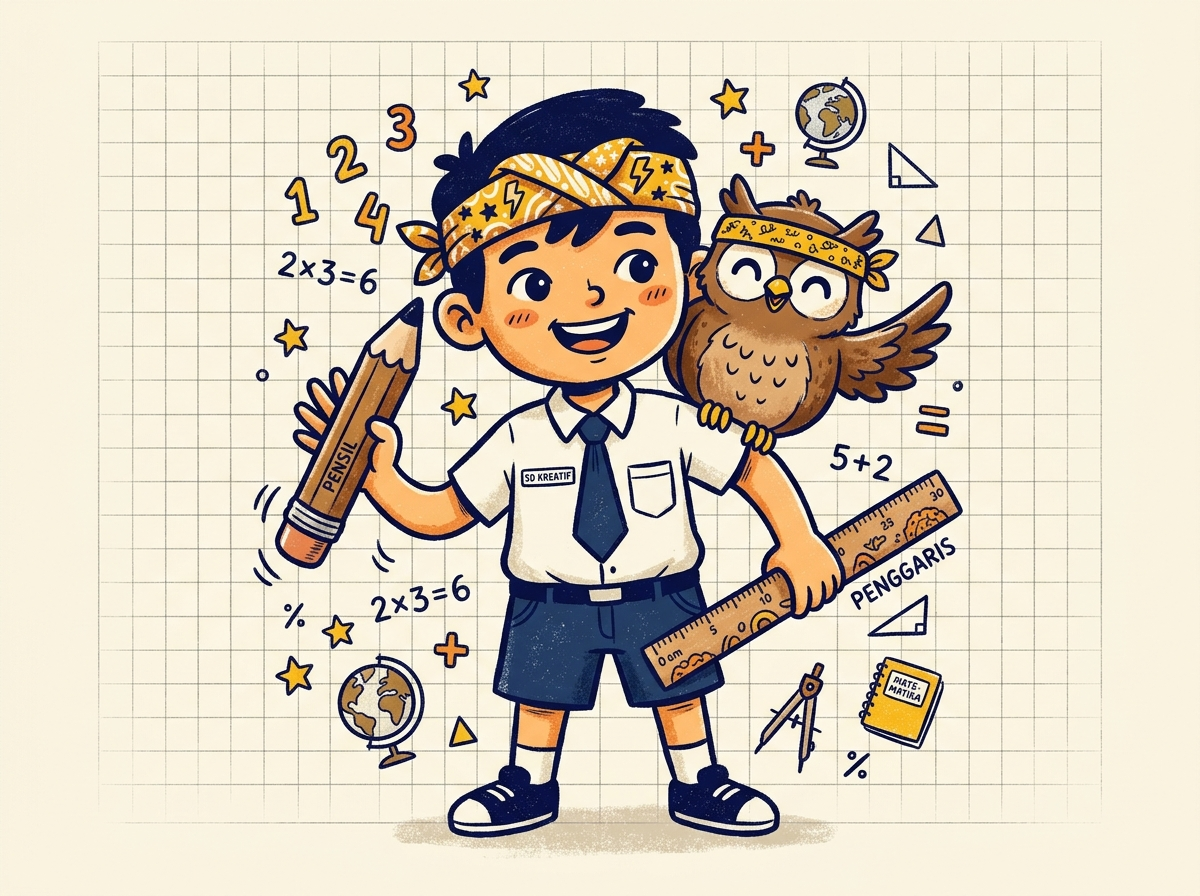
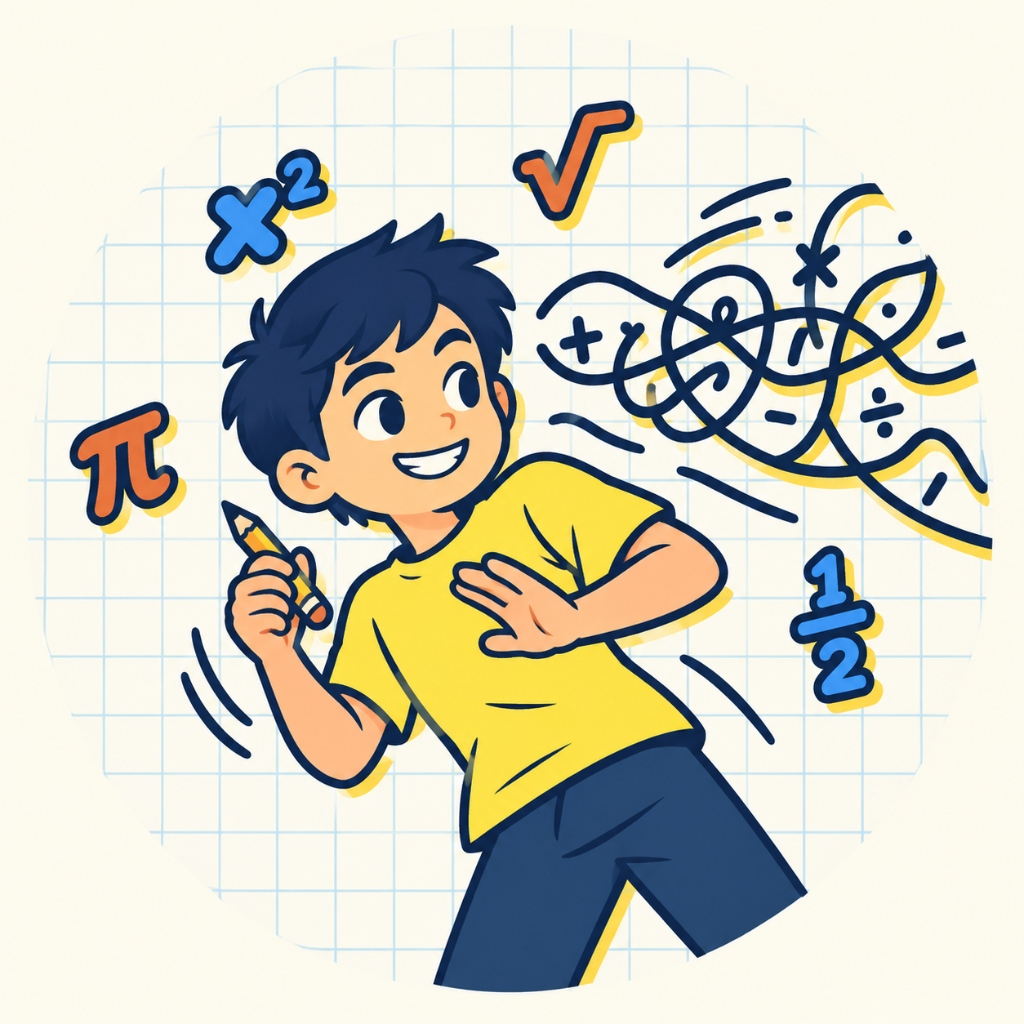
[FIX] aset: perbarui gambar maskot hero dengan ilustrasi ngeles dari cara ribet

diff --git a/src/modules/topic/views/home-page.tsx b/src/modules/topic/views/home-page.tsx
@@ -60,7 +60,7 @@ export function HomePage({
               <div class="md:col-span-5 flex flex-col items-center justify-center relative mt-4 md:mt-0">
                 <div class="relative inline-block border-[2.5px] border-ink rounded-card shadow-solid -rotate-2 bg-paper-soft p-2 sm:p-2.5 mx-auto max-w-[260px] sm:max-w-[280px] md:max-w-[360px] lg:max-w-[390px]">
                   <img
-                    src="/img/maskot-hero.png"
+                    src="/img/maskot-hero.png?v=2"
                     alt="Maskot Yuk Ngeles belajar matematika"
                     class="w-full h-auto object-contain block rounded-badge"
                   />
